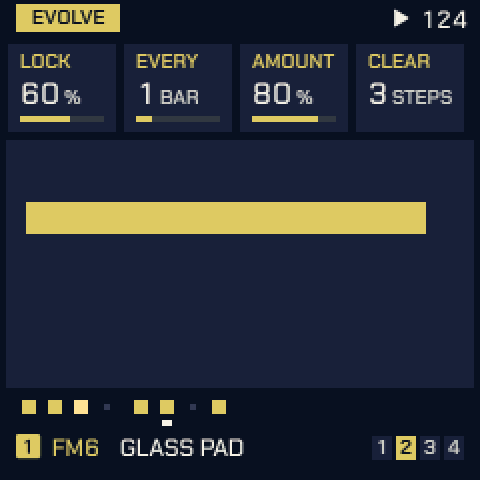
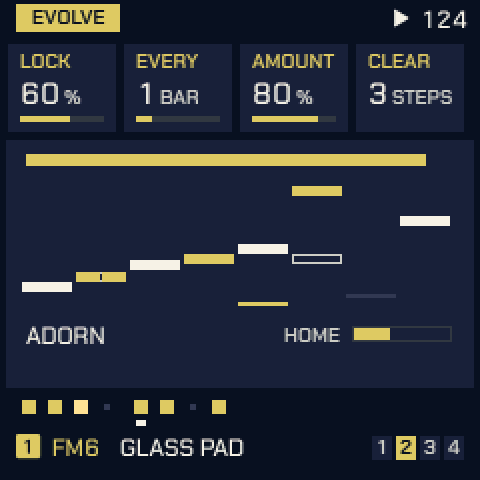
Manual: the STEP EVOLVE and SOURCE pictures, ghost notes, HOME
Claude-Session: https://claude.ai/code/session_01Kjor79N2Ng6bDdcskqKs6W

diff --git a/MANUAL.md b/MANUAL.md
@@ -334,6 +334,13 @@ Drift with PROB, LEAP or MORPH, and let GRAVITY decide how far it may wander.
 The notes keep their written pitch, then follow this track's scale, TRN and SHIFT. Print (REC held) keeps what it
 played, as for any generator.
 
+With a SOURCE, TURING's and MORPH's picture on GEN shows the loop as it plays now: a step as you wrote it in white,
+a changed one in the track's colour with the written step drawn over it hollow (its ghost: an empty frame is a
+note dropped). MORPH shows B, its variation. **HOME** under it is how far the loop has wandered: empty when it plays
+your pattern as written, full when every step has changed.
+
+<p align="center"><img src="assets/gallery/gen_seed.png" alt="TURING from a SOURCE" width="240"></p>
+
 ---
 
 ## EVOLVE
@@ -372,6 +379,13 @@ pattern clears the changes.
 | **SERIAL** | The whole phrase at once, for the round: **backwards** (retrograde), **upside down** (inversion in the scale, about its first note), **rotated** by a few steps, or **half of it at half speed** (augmentation). AMOUNT is the chance a round brings one, LOCK the chance it stays for the next. |
 
 Changing HOW puts the steps back as written. REC held keeps any of them, SERIAL's whole phrase included.
+
+The EVOLVE page's picture shows the steps across the phrase, by pitch, under the bars left until the next round. A
+step playing as written is white; a changed one is in the track's colour, with the step as written hollow where
+it was: a ratchet is split into its hits, a passing or ghost note sits in a rest, a dropped note leaves only the
+hollow one. Under them: HOW, or SERIAL's transform this round (BACKWARDS, UPSIDE DOWN, ROTATE n, HALF SPEED), and
+**HOME**, how far the steps are from as written (empty: all as written). On NOTES, a changed step's note as it
+plays now is dashed, beside the note you wrote.
 
 <p align="center"><img src="assets/gallery/gen_evolve.png" alt="EVOLVE" width="240"> <img src="assets/gallery/step_evolve.png" alt="STEP EVOLVE" width="240"></p>
 
